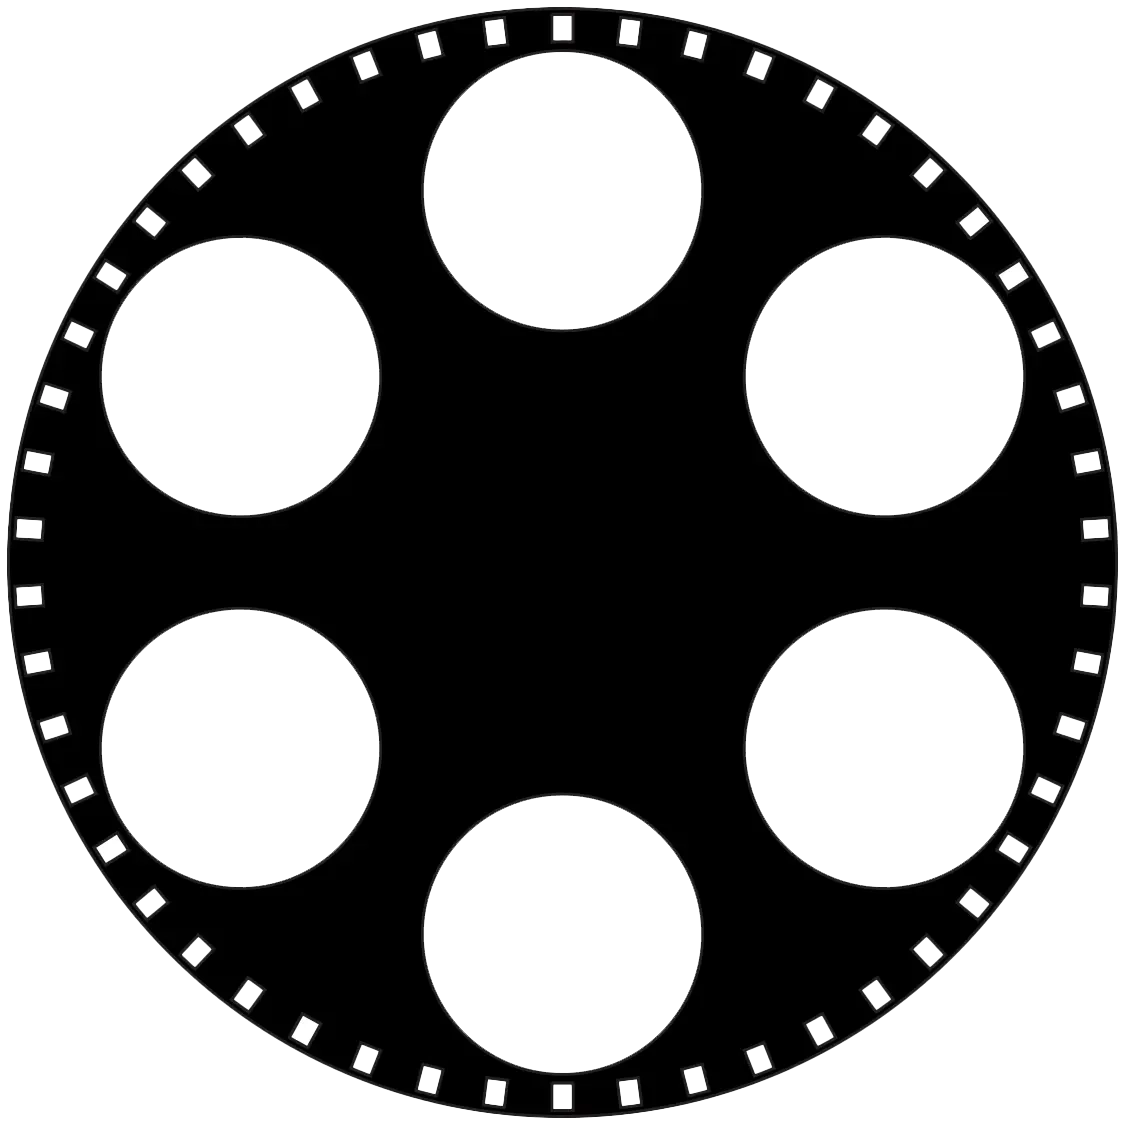
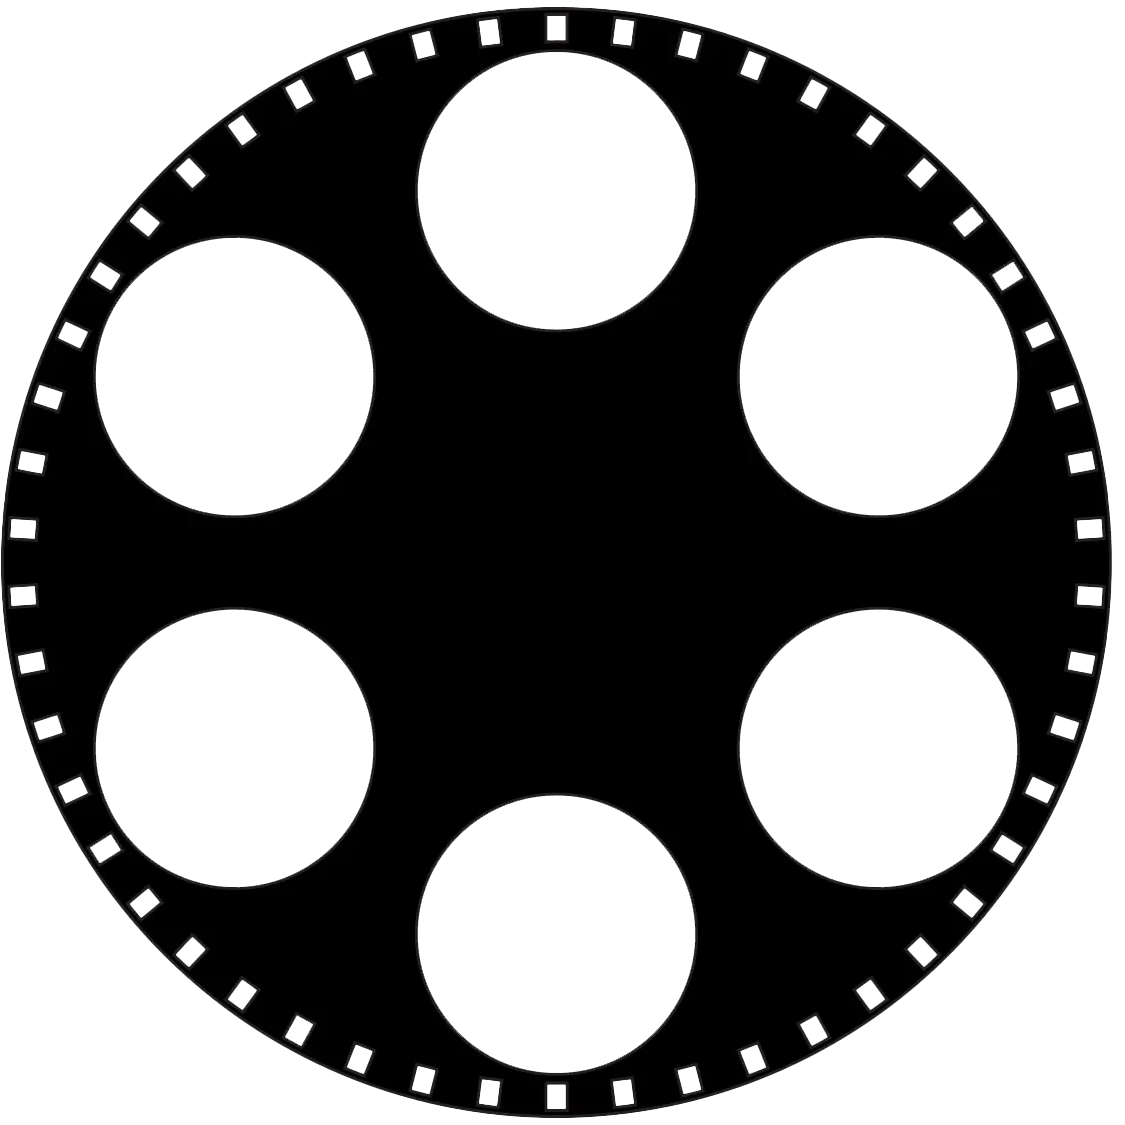
fixed transparency on wheel

diff --git a/script.js b/script.js
@@ -86,7 +86,6 @@ Ftags.addEventListener("change", () => {
 const link = document.getElementById("wheel");
 const icon = new Image();
 icon.src = link.href;
-icon.crossOrigin = "anonymous"; // only if loading from another domain
 
 const canvas = document.createElement("canvas");
 const ctx = canvas.getContext("2d");
@@ -95,7 +94,7 @@ canvas.width = size;
 canvas.height = size;
 
 window.addEventListener("scroll", () => {
-    const ANGLE = window.scrollY / 50; // smaller number = faster rotation
+    const ANGLE = window.scrollY / 500;
     ctx.clearRect(0, 0, size, size);
     ctx.save();
     ctx.translate(size / 2, size / 2);
@@ -103,11 +102,8 @@ window.addEventListener("scroll", () => {
     ctx.drawImage(icon, -size / 2, -size / 2, size, size);
     ctx.restore();
 
-    // Update favicon
     link.href = canvas.toDataURL("image/webp");
 
-    // let ANGLE = window.scrollY / 10;
-    // wheel.style.transform = "rotate(" + ANGLE + ")";
     if(EXPANDED){
         expandheadder();
         header.classList.toggle("expanded");
